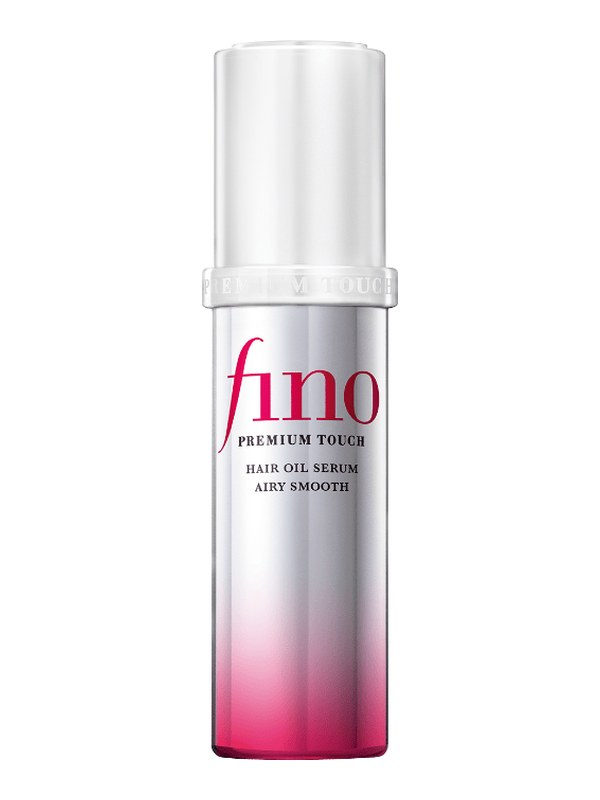
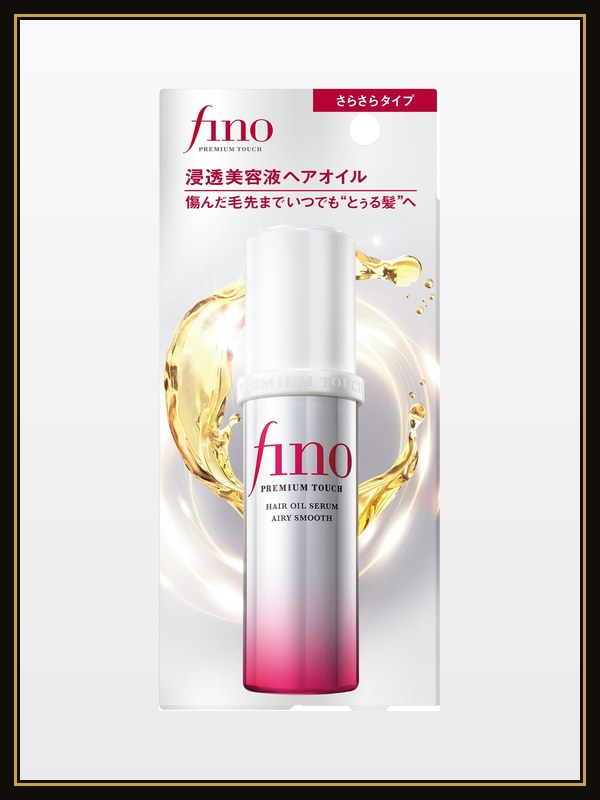
Novidades: official box packshots in gold-framed tiles

diff --git a/perfumes/assets/beauty.js b/perfumes/assets/beauty.js
@@ -16,7 +16,7 @@ window.BAGDA_BEAUTY = [
   var esc=function(s){return String(s||'').replace(/[&<>"]/g,function(c){return {'&':'&amp;','<':'&lt;','>':'&gt;','"':'&quot;'}[c]})};
   g.innerHTML=window.BAGDA_BEAUTY.map(function(p){
     var wa='https://wa.me/5511992873509?text='+encodeURIComponent((p.price?'Olá! Quero comprar o '+p.name+' ('+p.price+')':'Olá! Quero saber o preço do '+p.name));
-    var src='img/beauty/'+p.img;var v='?v=i2';
+    var src='img/beauty/'+p.img;var v='?v=i3';
     return '<article class="bcard"><div class="bimg"><picture><source srcset="'+src+'.webp'+v+'" type="image/webp"><img src="'+src+'.jpg'+v+'" alt="'+esc(p.name)+'" loading="lazy" width="600" height="800"></picture></div>'+
       '<div class="bbody"><span class="bmeta">'+esc(p.brand)+(p.origin?' · '+esc(p.origin):'')+'</span><h3>'+esc(p.name)+'</h3><p>'+esc(p.desc)+'</p>'+
       '<div class="bfoot"><span class="'+(p.price?'price':'bask')+'">'+(p.price?esc(p.price):'Consulte o preço')+'</span>'+

diff --git a/perfumes/index.html b/perfumes/index.html
@@ -254,6 +254,6 @@
 <script src="/vendor/qrcode-generator-2.0.4.js?v=20261019p1"></script>
 <script src="/cart.js?v=20261019p1"></script>
 <script src="assets/app.js?v=20261020a1"></script>
-<script src="assets/beauty.js?v=b3"></script>
+<script src="assets/beauty.js?v=b4"></script>
 </body>
 </html>
